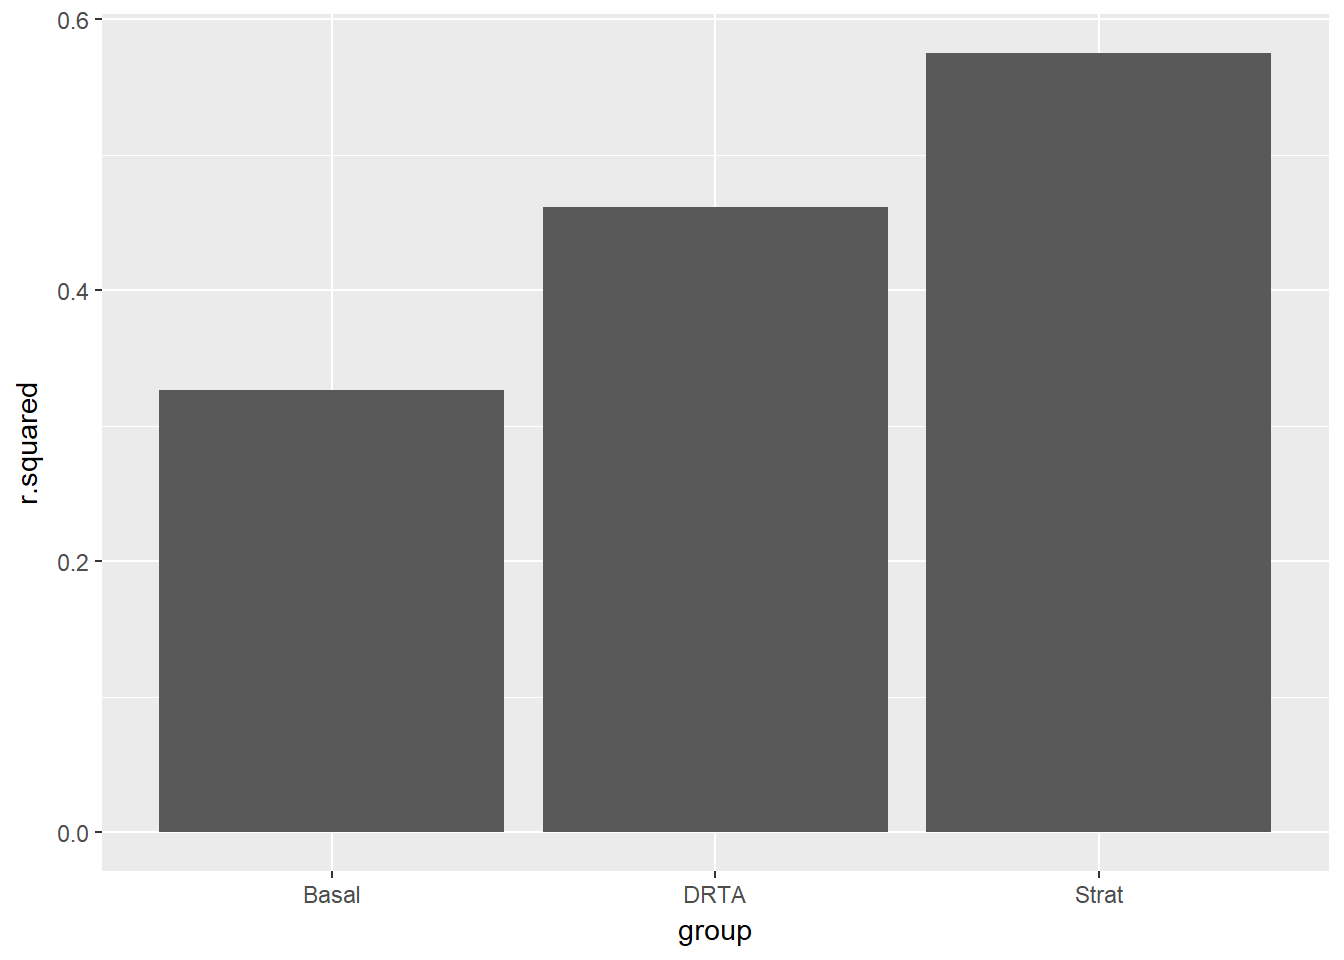
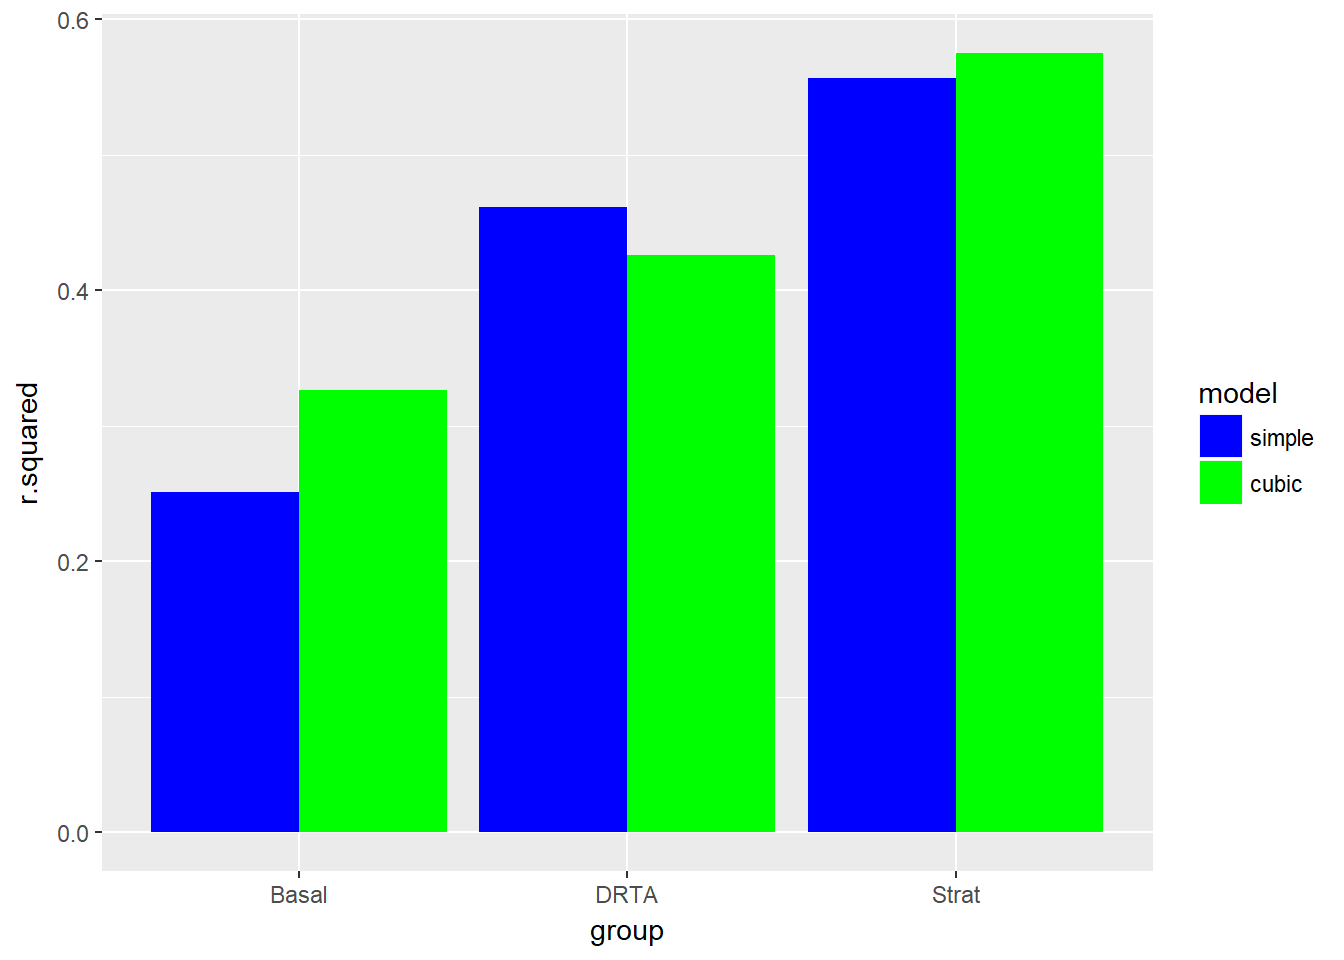
...

diff --git a/public/post/working-more-with-the-baumann-dataset/index.html b/public/post/working-more-with-the-baumann-dataset/index.html
@@ -135,8 +135,9 @@ models</code></pre>
 ## 6 Strat cubic      0.575  2.62     27.1  0.0000433</code></pre>
 <p>Why not plot some of these outputs for easier interpretation?</p>
 <pre class="r"><code>models %&gt;% 
-  ggplot(aes(x = group, y = r.squared, fct_rev(model))) +
-  geom_bar(stat = &quot;identity&quot;, position = &quot;dodge&quot;)</code></pre>
+  ggplot(aes(x = group, y = r.squared, fill = fct_rev(model))) +
+  geom_bar(stat = &quot;identity&quot;, position = &quot;dodge&quot;) +
+  scale_fill_manual(&quot;model&quot;, values = c(&quot;cubic&quot; = &quot;green&quot;, &quot;simple&quot; = &quot;blue&quot;))</code></pre>
 <p><img src="../../post/2018-12-29-working-more-with-the-baumann-dataset_files/figure-html/unnamed-chunk-4-1.png" width="672" /></p>
 <pre class="r"><code>models %&gt;% 
   ggplot(aes(x = group, y = sigma, fill = fct_rev(model))) +

diff --git a/content/post/2018-12-29-working-more-with-the-baumann-dataset.html b/content/post/2018-12-29-working-more-with-the-baumann-dataset.html
@@ -88,8 +88,9 @@ models</code></pre>
 ## 6 Strat cubic      0.575  2.62     27.1  0.0000433</code></pre>
 <p>Why not plot some of these outputs for easier interpretation?</p>
 <pre class="r"><code>models %&gt;% 
-  ggplot(aes(x = group, y = r.squared, fct_rev(model))) +
-  geom_bar(stat = &quot;identity&quot;, position = &quot;dodge&quot;)</code></pre>
+  ggplot(aes(x = group, y = r.squared, fill = fct_rev(model))) +
+  geom_bar(stat = &quot;identity&quot;, position = &quot;dodge&quot;) +
+  scale_fill_manual(&quot;model&quot;, values = c(&quot;cubic&quot; = &quot;green&quot;, &quot;simple&quot; = &quot;blue&quot;))</code></pre>
 <p><img src="/post/2018-12-29-working-more-with-the-baumann-dataset_files/figure-html/unnamed-chunk-4-1.png" width="672" /></p>
 <pre class="r"><code>models %&gt;% 
   ggplot(aes(x = group, y = sigma, fill = fct_rev(model))) +
